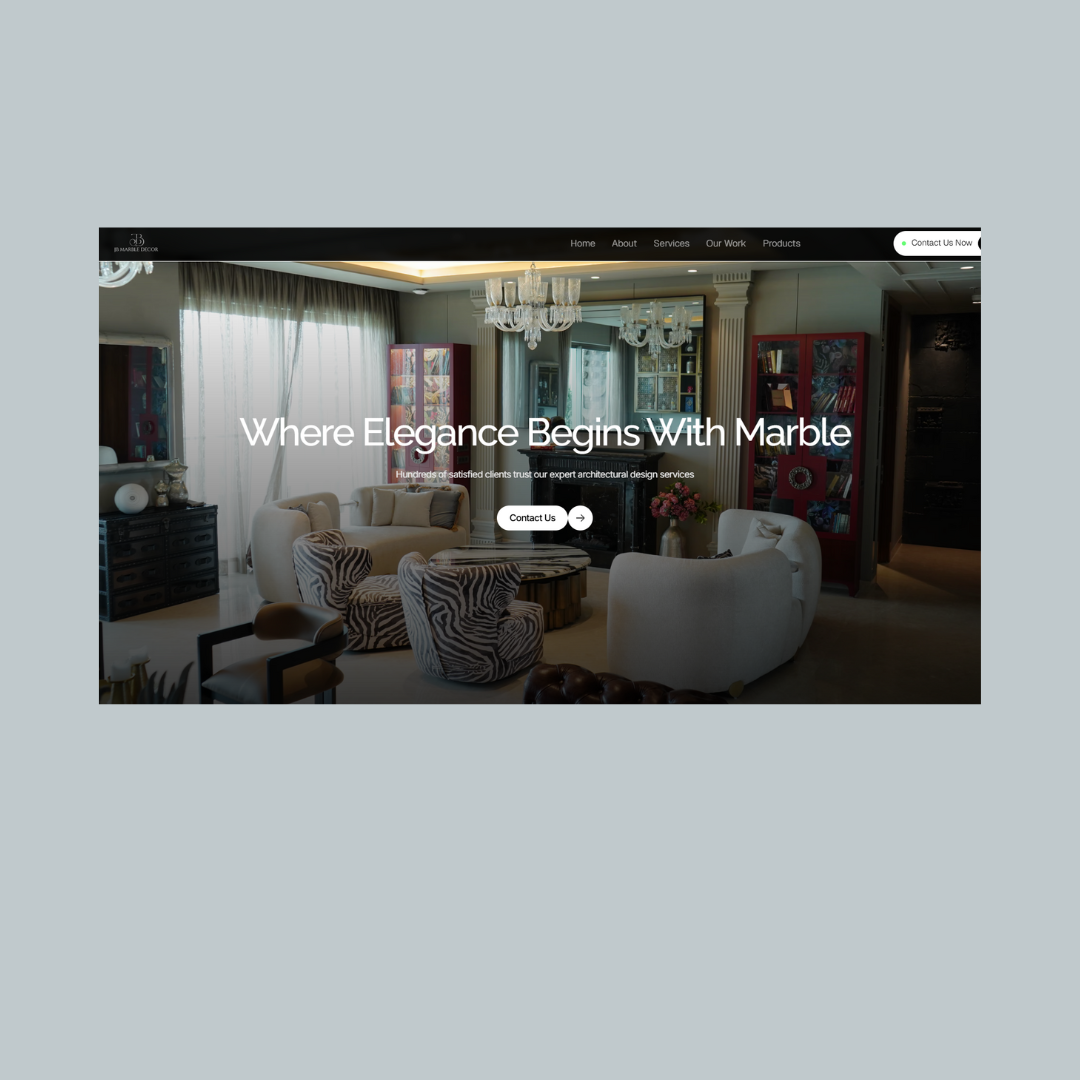
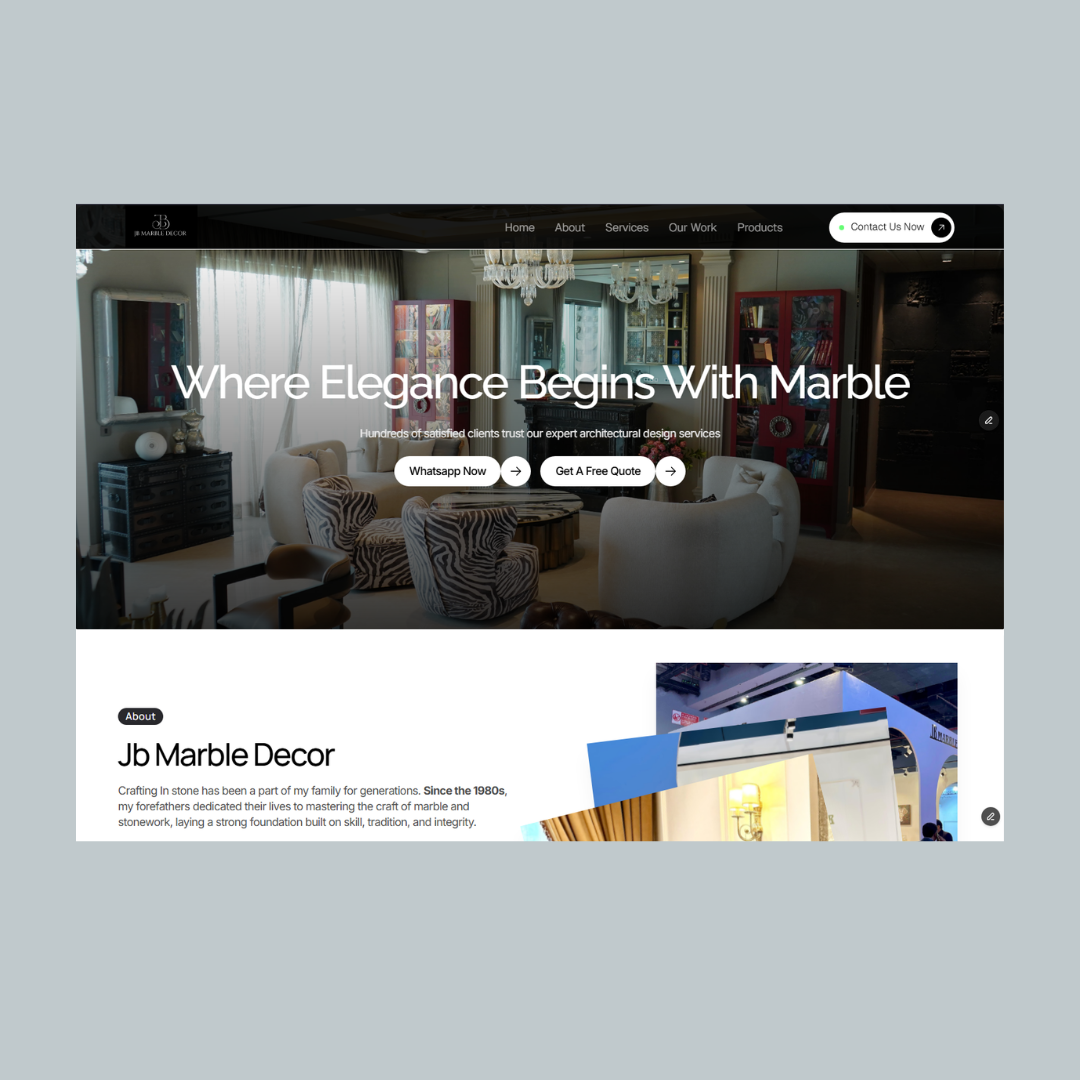
commit

diff --git a/index.html b/index.html
@@ -147,7 +147,17 @@
               </div>
             </div>
             <div>
-              <p>Dorimeh.com/</p>
+              <p>idealcoffeemachines.com</p>
+              <div data-animate="true">
+                <img class="site-snapshots" src="./images/sites-snap-shots/ideal-1.png" loading="lazy" alt="chaksuhaveli" />
+                <img class="site-snapshots" src="./images/sites-snap-shots/ideal-2.png" loading="lazy" alt="chaksuhaveli" />
+                <img class="site-snapshots" src="./images/sites-snap-shots/ideal-3.png" loading="lazy" alt="chaksuhaveli" />
+                <img class="site-snapshots" src="./images/sites-snap-shots/ideal-4.png" loading="lazy" alt="chaksuhaveli" />
+                <img class="site-snapshots" src="./images/sites-snap-shots/ideal-5.png" loading="lazy" alt="chaksuhaveli" />
+              </div>
+            </div>
+            <div>
+              <p>Dorimeh.com</p>
               <div data-animate="true">
                 <img class="site-snapshots" src="./images/sites-snap-shots/dorimeh-1.png" loading="lazy" alt="chaksuhaveli" />
                 <img class="site-snapshots" src="./images/sites-snap-shots/dorimeh-2.png" loading="lazy" alt="chaksuhaveli" />
@@ -158,13 +168,13 @@
               </div>
             </div>
             <div>
-              <p>Artinnovate.in</p>
+              <p>Nirankar sandstones</p>
               <div data-animate="true">
-                <img class="site-snapshots" src="./images/sites-snap-shots/artinnovate-1.jpg" loading="lazy" alt="entangled minds" />
-                <img class="site-snapshots" src="./images/sites-snap-shots/artinnovate-2.jpg" loading="lazy" alt="entangled minds" />
-                <img class="site-snapshots" src="./images/sites-snap-shots/artinnovate-3.jpg" loading="lazy" alt="entangled minds" />
-                <img class="site-snapshots" src="./images/sites-snap-shots/artinnovate-4.jpg" loading="lazy" alt="entangled minds" />
-                <img class="site-snapshots" src="./images/sites-snap-shots/artinnovate-5.jpg" loading="lazy" alt="entangled minds" />
+                <img class="site-snapshots" src="./images/sites-snap-shots/nirankar-1.png" loading="lazy" alt="vis a via" />
+                <img class="site-snapshots" src="./images/sites-snap-shots/nirankar-2.png" loading="lazy" alt="vis a via" />
+                <img class="site-snapshots" src="./images/sites-snap-shots/nirankar-3.png" loading="lazy" alt="vis a via" />
+                <img class="site-snapshots" src="./images/sites-snap-shots/nirankar-4.png" loading="lazy" alt="vis a via" />
+                <img class="site-snapshots" src="./images/sites-snap-shots/nirankar-5.png" loading="lazy" alt="vis a via" />
               </div>
             </div>
             <div>
@@ -178,24 +188,13 @@
               </div>
             </div>
             <div>
-              <p>juhunt.tech</p>
+              <p>jaassteel.com</p>
               <div data-animate="true">
-                <img class="site-snapshots" src="./images/sites-snap-shots/juspace-1.png" loading="lazy" alt="vis a via" />
-                <img class="site-snapshots" src="./images/sites-snap-shots/juspace-2.png" loading="lazy" alt="vis a via" />
-                <img class="site-snapshots" src="./images/sites-snap-shots/juspace-3.png" loading="lazy" alt="vis a via" />
-                <img class="site-snapshots" src="./images/sites-snap-shots/juspace-4.png" loading="lazy" alt="vis a via" />
-                <img class="site-snapshots" src="./images/sites-snap-shots/juspace-5.png" loading="lazy" alt="vis a via" />
-              </div>
-            </div>
-            <div>
-              <p>Onceuponatable.in</p>
-              <div data-animate="true">
-                <img class="site-snapshots" src="./images/sites-snap-shots/out-1.png" loading="lazy" alt="vis a via" />
-                <img class="site-snapshots" src="./images/sites-snap-shots/out-2.png" loading="lazy" alt="vis a via" />
-                <img class="site-snapshots" src="./images/sites-snap-shots/out-3.png" loading="lazy" alt="vis a via" />
-                <img class="site-snapshots" src="./images/sites-snap-shots/out-4.png" loading="lazy" alt="vis a via" />
-                <img class="site-snapshots" src="./images/sites-snap-shots/out-5.png" loading="lazy" alt="vis a via" />
-                <img class="site-snapshots" src="./images/sites-snap-shots/out-6.png" loading="lazy" alt="vis a via" />
+                <img class="site-snapshots" src="./images/sites-snap-shots/jass-1.png" loading="lazy" alt="vis a via" />
+                <img class="site-snapshots" src="./images/sites-snap-shots/jass-2.png" loading="lazy" alt="vis a via" />
+                <img class="site-snapshots" src="./images/sites-snap-shots/jass-3.png" loading="lazy" alt="vis a via" />
+                <img class="site-snapshots" src="./images/sites-snap-shots/jass-4.png" loading="lazy" alt="vis a via" />
+                <img class="site-snapshots" src="./images/sites-snap-shots/jass-5.png" loading="lazy" alt="vis a via" />
               </div>
             </div>
             <div>
@@ -209,13 +208,14 @@
               </div>
             </div>
             <div>
-              <p>trendyaura.in</p>
+              <p>jbmarbledecor.in</p>
               <div data-animate="true">
-                <img class="site-snapshots" src="./images/sites-snap-shots/trendy-aura-1.png" loading="lazy" alt="vis a via" />
-                <img class="site-snapshots" src="./images/sites-snap-shots/trendy-aura-2.png" loading="lazy" alt="vis a via" />
-                <img class="site-snapshots" src="./images/sites-snap-shots/trendy-aura-3.png" loading="lazy" alt="vis a via" />
-                <img class="site-snapshots" src="./images/sites-snap-shots/trendy-aura-4.png" loading="lazy" alt="vis a via" />
-                <img class="site-snapshots" src="./images/sites-snap-shots/trendy-aura-5.png" loading="lazy" alt="vis a via" />
+                <!-- <img class="site-snapshots" src="./images/sites-snap-shots/" loading="lazy" alt="vis a via" />
+                <img class="site-snapshots" src="./images/sites-snap-shots/" loading="lazy" alt="vis a via" />
+                <img class="site-snapshots" src="./images/sites-snap-shots/" loading="lazy" alt="vis a via" />
+                <img class="site-snapshots" src="./images/sites-snap-shots/" loading="lazy" alt="vis a via" />
+                <img class="site-snapshots" src="./images/sites-snap-shots/" loading="lazy" alt="vis a via" />
+                <img class="site-snapshots" src="./images/sites-snap-shots/" loading="lazy" alt="vis a via" /> -->
               </div>
             </div>
             <div>
@@ -712,19 +712,19 @@
               <div class="c-project__row">
                 <div class="c-project js-project u-width-3">
                    <a
-                    href="https://dorimeh.com/"
+                    href="https://idealcoffeemachines.com/"
                     target="_blank"
                   >
                     <img
                       data-scroll=""
                       data-scroll-speed="-1"
-                      src="./images/dorimeh-cover-image.png"
+                      src="./images/ideal-cover-image.png"
                     />
                     <div class="c-project-info">
                       <p>YEAR: 2025</p>
-                      <p>ROLE: SHOPIFY DEV</p>
+                      <p>ROLE: Full stack dev</p>
                       <div class="c-project-cta">
-                        <p>Do<span class="o-accent">r</span><span class="o-accent">imeh</span></p>
+                        <p>Ideal <span class="o-accent">coffee machines</span><span class="o-accent"></span></p>
                         <div class="c-prj-btn js-tab-arrow">
                           <svg
                             id="arrow"
@@ -781,19 +781,19 @@
               <div class="c-project__row">
                 <div class="c-project js-project u-width-4">
                   <a
-                    href="https://artinnovate.in/"
+                    href="https://dorimeh.com/"
                     target="_blank"
                   >
                     <img
                       data-scroll=""
                       data-scroll-speed="-.8"
-                      src="./images/artinnovate-cover-img.png"
+                      src="./images/dorimeh-cover-image.png"
                     />
                     <div class="c-project-info">
                       <p>YEAR: 2025</p>
-                      <p>ROLE: UI/UX AND FRONT-END DEV</p>
+                      <p>ROLE: Shopify DEV</p>
                       <div class="c-project-cta">
-                        <p>Arti<span class="o-accent">nn</span>ovate</p>
+                        <p>Do<span class="o-accent">r</span>imeh</p>
                         <div class="c-prj-btn js-tab-arrow">
                           <svg
                             id="arrow"
@@ -848,20 +848,20 @@
                 </div>
                 <div class="c-project js-project u-width-5">
                   <a
-                    href="https://anujhajari.netlify.app/"
+                    href="https://nirankar-production.netlify.app/"
                     target="_blank"
                   >
                     <img
                       data-scroll=""
                       data-scroll-speed="-1"
-                      src="./images/anuj-portfolio-cover-image.png"
+                      src="./images/nirankar-cover-image.png"
                       alt="Project: Mlco Ai"
                     />
                     <div class="c-project-info">
-                      <p>YEAR: 2025</p>
+                      <p>YEAR: 2026</p>
                       <p>ROLE: UI/UX AND DEV</p>
                       <div class="c-project-cta">
-                        <p>Anuj H<span class="o-accent">a</span>jari</p>
+                        <p>Ni<span class="o-accent">r</span>ankar</p>
                         <div class="c-prj-btn js-tab-arrow">
                           <svg
                             id="arrow"
@@ -925,19 +925,19 @@
               <div class="c-project__row">
                 <div class="c-project js-project u-width-1">
                   <a
-                    href="https://juhunt.tech/"
+                    href="https://anujhajari.netlify.app/"
                     target="_blank"
                   >
                     <img
                       data-scroll=""
                       data-scroll-speed="-1"
-                      src="./images/juspace-1.png"
+                      src="./images/anuj-portfolio-cover-image.png"
                     />
                     <div class="c-project-info">
-                      <p>YEAR: 2024</p>
-                      <p>ROLE: FRONT-END DEV AND UI/UX</p>
+                      <p>YEAR: 2025</p>
+                      <p>ROLE: UI/UX AND DEV</p>
                       <div class="c-project-cta">
-                        <p>Ju S<span class="o-accent">p</span>ace</p>
+                        <p>Anuj H<span class="o-accent">a</span>jari</p>
                         <div class="c-prj-btn js-tab-arrow">
                           <svg
                             id="arrow"
@@ -992,19 +992,19 @@
                 </div>
                 <div class="c-project js-project u-width-2">
                   <a
-                      href="https://onceuponatable.in/"
+                      href="https://jslpl-production.netlify.app/"
                       target="_blank"
                     >
                     <img
                       data-scroll=""
                       data-scroll-speed="-1"
-                      src="./images/out-cover-image.png"
+                      src="./images/jass-cover-image.png"
                     />
                     <div class="c-project-info">
-                      <p>YEAR: 2025</p>
-                      <p>ROLE: WORDPRESS DEV</p>
+                      <p>YEAR: 2026</p>
+                      <p>ROLE: UI/UX AND DEV</p>
                       <div class="c-project-cta">
-                        <p>OUT<span class="o-accent"></span></p>
+                        <p>Jass S<span class="o-accent">t</span>eels</p>
                         <div class="c-prj-btn js-tab-arrow">
                           <svg
                             id="arrow"
@@ -1130,19 +1130,19 @@
               <div class="c-project__row">
                 <div class="c-project js-project u-width-4">
                   <a
-                    href="https://trendyaura.in/"
+                    href="https://www.jbmarbledecor.in/"
                     target="_blank"
                   >
                     <img
                       data-scroll=""
                       data-scroll-speed="-.8"
-                      src="./images/trendy-aura-cover-image.png"
+                      src="./images/jb-marble-cover-image.jpg"
                     />
                     <div class="c-project-info">
                       <p>YEAR: 2025</p>
-                      <p>ROLE: SHOPIFY DEV</p>
+                      <p>ROLE: Framer DEV</p>
                       <div class="c-project-cta">
-                        <p>Trendy A<span class="o-accent">u</span>ra</p>
+                        <p>JB ma<span class="o-accent">r</span>ble decor</p>
                         <div class="c-prj-btn js-tab-arrow">
                           <svg
                             id="arrow"
